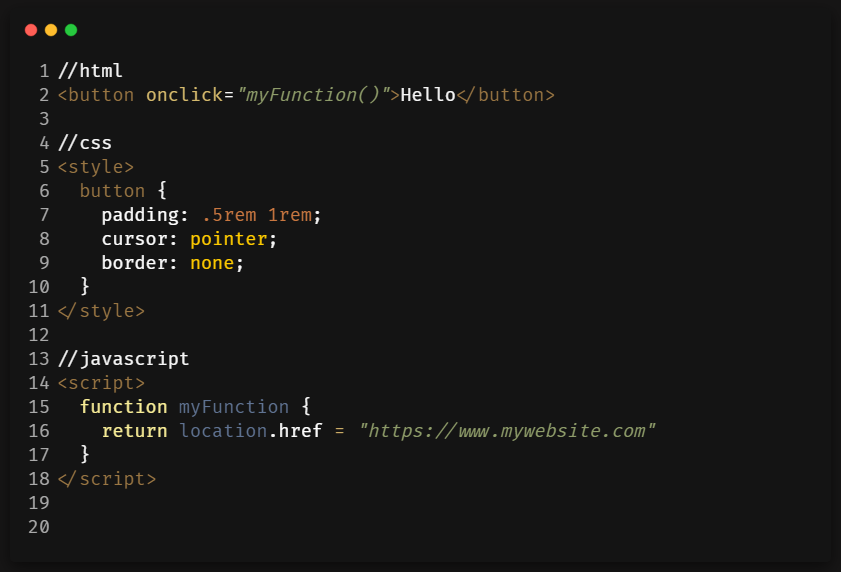
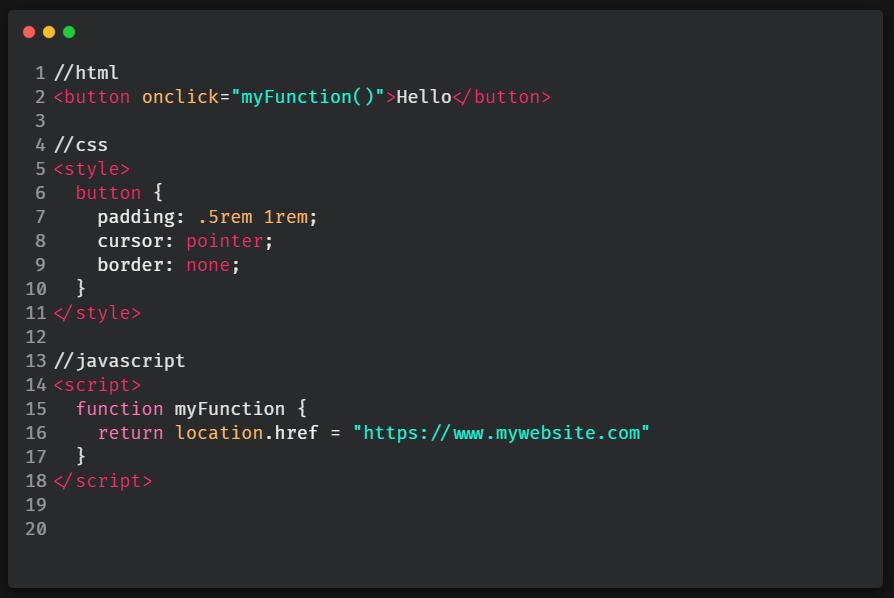
new images

Changed region(s): [[0.0, 0.0297, 0.7729, 0.951]]

diff --git a/posts/buttons.html b/posts/buttons.html
@@ -148,8 +148,8 @@
           <br />
           <br />
           Another common solution is wrapping an <code>a</code> tag around a <code>button</code> tag.
-          <img src="images/a-around-btn-pink.png" class="code-example" width="680" height="319" alt="example of an a tag wrapping around a button">
-          <br /> This and the vice versa option of wrapping a <code>button</code> tag around an <code>a</code> tag are other ways that seems to work in terms of functionality but are technically <a href="https://stackoverflow.com/questions/6393827/can-i-nest-a-button-element-inside-an-a-using-html5" target="_blank">incorrect</a> in terms of web standards.
+          <img src="images/a-around-btn-min.png" class="code-example" width="680" height="319" alt="example of an a tag wrapping around a button">
+          <br /> This and the vice versa option of wrapping a <code>button</code> tag around an <code>a</code> tag are other ways that seems to work in terms of functionality, but are technically <a href="https://stackoverflow.com/questions/6393827/can-i-nest-a-button-element-inside-an-a-using-html5" target="_blank">incorrect</a> in terms of web standards.
           <br />
           <br />
           <span class="accent">From what I gathered while reading around</span>, the most viable option seems to be using a Javascript <code>onclick</code> (or <code>onClick</code> if using React) function inside the button tag to go to the desired destination.
